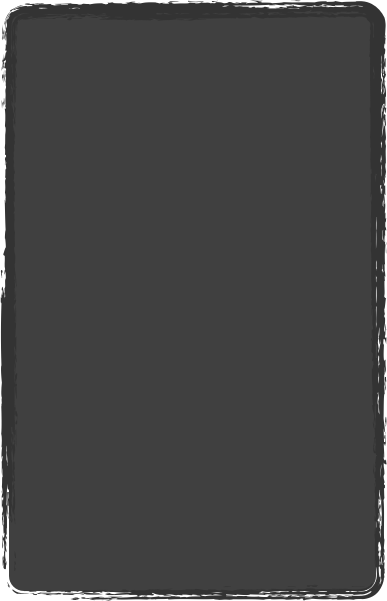
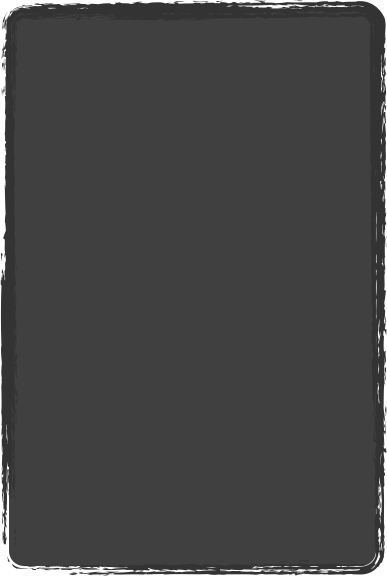
update

diff --git a/Cara_Leigh_About.html b/Cara_Leigh_About.html
@@ -152,9 +152,9 @@
             <script type="text/javascript"><!--//--><![CDATA[//><!--
 new Paste('widget0', 'Scripts/Widgets/HTMLRegion', 'Scripts/Widgets/SharedResources', '.', {"emptyLook": false});
 //--><!]]></script>
-            <div style="height: 601px; width: 387px;  height: 580px; left: 64px; position: absolute; top: 101px; width: 367px; z-index: 1; " class="tinyText">
+            <div style="height: 576px; width: 387px;  height: 555px; left: 64px; position: absolute; top: 101px; width: 367px; z-index: 1; " class="tinyText">
               <div style="position: relative; width: 367px; ">
-                <img src="Cara_Leigh_About_files/shapeimage_6.png" alt="" style="height: 601px; left: 0px; margin-left: -9px; margin-top: -11px; position: absolute; top: 0px; width: 387px; " />
+                <img src="Cara_Leigh_About_files/shapeimage_6.png" alt="" style="height: 576px; left: 0px; margin-left: -9px; margin-top: -11px; position: absolute; top: 0px; width: 387px; " />
               </div>
             </div>
             
@@ -170,13 +170,13 @@ new Paste('widget0', 'Scripts/Widgets/HTMLRegion', 'Scripts/Widgets/SharedResour
             
 
 
-            <div id="id12" style="height: 498px; left: 214px; position: absolute; top: 174px; width: 207px; z-index: 1; " class="style_SkipStroke_2 shape-with-text">
-              <div class="text-content graphic_textbox_layout_style_default_External_207_498" style="padding: 0px; ">
+            <div id="id12" style="height: 464px; left: 214px; position: absolute; top: 174px; width: 207px; z-index: 1; " class="style_SkipStroke_2 shape-with-text">
+              <div class="text-content graphic_textbox_layout_style_default_External_207_464" style="padding: 0px; ">
                 <div class="graphic_textbox_layout_style_default">
                   <p style="padding-top: 0pt; " class="paragraph_style_3">I’m an independent musician. I write and record my own tunes. <br /></p>
                   <p class="paragraph_style_3">Previously, I was in the band <a onclick="window.open(this.href); return false;" title="http://forevermeansnever.bandcamp.com/" href="http://forevermeansnever.bandcamp.com/" onkeypress="window.open(this.href); return false;">Forever Means Never</a>. Now, as a solo artist, you’ll find me performing at open mics and friendly porches.<br /></p>
                   <p class="paragraph_style_3">My album “One Step” is available for free <a onclick="window.open(this.href); return false;" title="http://caraleigh.bandcamp.com/album/one-step" href="http://caraleigh.bandcamp.com/album/one-step" onkeypress="window.open(this.href); return false;" class="class2">HERE</a>. It is an album that focuses on challenging perspectives, accepting change and self-empowerment. <br /></p>
-                  <p style="padding-bottom: 0pt; " class="paragraph_style_3">My latest EP “Another Kick At The Can” is a small collection of tunes that I wrote (or previously recorded) between 2004-2008. This EP can be downloaded <a onclick="window.open(this.href); return false;" title="http://caraleigh.bandcamp.com/album/another-kick-at-the-can-ep" href="http://caraleigh.bandcamp.com/album/another-kick-at-the-can-ep" onkeypress="window.open(this.href); return false;" class="class3">HERE</a>.</p>
+                  <p style="padding-bottom: 0pt; " class="paragraph_style_3">My latest EP “Another Kick At The Can” is a small collection of tunes that I wrote between 2004-2008. This EP can be downloaded <a onclick="window.open(this.href); return false;" title="http://caraleigh.bandcamp.com/album/another-kick-at-the-can-ep" href="http://caraleigh.bandcamp.com/album/another-kick-at-the-can-ep" onkeypress="window.open(this.href); return false;" class="class3">HERE</a>.</p>
                 </div>
               </div>
             </div>
@@ -195,7 +195,7 @@ new Paste('widget0', 'Scripts/Widgets/HTMLRegion', 'Scripts/Widgets/SharedResour
             <script type="text/javascript"><!--//--><![CDATA[//><!--
 new Paste('widget1', 'Scripts/Widgets/HTMLRegion', 'Scripts/Widgets/SharedResources', '.', {"emptyLook": false});
 //--><!]]></script>
-            <div style="height: 672px; line-height: 672px; " class="spacer"> </div>
+            <div style="height: 645px; line-height: 645px; " class="spacer"> </div>
           </div>
           <div style="height: 150px; margin-left: 0px; position: relative; width: 700px; z-index: 15; " id="footer_layer">
             <div style="height: 0px; line-height: 0px; " class="bumper"> </div>

diff --git a/Cara_Leigh_files/Cara_Leigh.js b/Cara_Leigh_files/Cara_Leigh.js
@@ -1,7 +1,7 @@
 // Created by iWeb 3.0 local-build-20130213
 
 setTransparentGifURL('Media/transparent.gif');function applyEffects()
-{var registry=IWCreateEffectRegistry();registry.registerEffects({stroke_0:new IWStrokeParts([{rect:new IWRect(-1,1,2,1158),url:'Cara_Leigh_files/stroke.png'},{rect:new IWRect(-1,-1,2,2),url:'Cara_Leigh_files/stroke_1.png'},{rect:new IWRect(1,-1,1544,2),url:'Cara_Leigh_files/stroke_2.png'},{rect:new IWRect(1545,-1,2,2),url:'Cara_Leigh_files/stroke_3.png'},{rect:new IWRect(1545,1,2,1158),url:'Cara_Leigh_files/stroke_4.png'},{rect:new IWRect(1545,1159,2,2),url:'Cara_Leigh_files/stroke_5.png'},{rect:new IWRect(1,1159,1544,2),url:'Cara_Leigh_files/stroke_6.png'},{rect:new IWRect(-1,1159,2,2),url:'Cara_Leigh_files/stroke_7.png'}],new IWSize(1546,1160)),shadow_1:new IWShadow({blurRadius:6,offset:new IWPoint(0.4875,3.9702),color:'#000000',opacity:0.750000}),shadow_0:new IWShadow({blurRadius:6,offset:new IWPoint(-0.8998,3.8975),color:'#000000',opacity:0.750000}),stroke_1:new IWStrokeParts([{rect:new IWRect(-1,1,2,273),url:'Cara_Leigh_files/stroke_8.png'},{rect:new IWRect(-1,-1,2,2),url:'Cara_Leigh_files/stroke_9.png'},{rect:new IWRect(1,-1,327,2),url:'Cara_Leigh_files/stroke_10.png'},{rect:new IWRect(328,-1,2,2),url:'Cara_Leigh_files/stroke_11.png'},{rect:new IWRect(328,1,2,273),url:'Cara_Leigh_files/stroke_12.png'},{rect:new IWRect(328,274,2,2),url:'Cara_Leigh_files/stroke_13.png'},{rect:new IWRect(1,274,327,2),url:'Cara_Leigh_files/stroke_14.png'},{rect:new IWRect(-1,274,2,2),url:'Cara_Leigh_files/stroke_15.png'}],new IWSize(329,275))});registry.applyEffects();}
+{var registry=IWCreateEffectRegistry();registry.registerEffects({stroke_0:new IWStrokeParts([{rect:new IWRect(-1,1,2,1158),url:'Cara_Leigh_files/stroke.png'},{rect:new IWRect(-1,-1,2,2),url:'Cara_Leigh_files/stroke_1.png'},{rect:new IWRect(1,-1,1544,2),url:'Cara_Leigh_files/stroke_2.png'},{rect:new IWRect(1545,-1,2,2),url:'Cara_Leigh_files/stroke_3.png'},{rect:new IWRect(1545,1,2,1158),url:'Cara_Leigh_files/stroke_4.png'},{rect:new IWRect(1545,1159,2,2),url:'Cara_Leigh_files/stroke_5.png'},{rect:new IWRect(1,1159,1544,2),url:'Cara_Leigh_files/stroke_6.png'},{rect:new IWRect(-1,1159,2,2),url:'Cara_Leigh_files/stroke_7.png'}],new IWSize(1546,1160)),shadow_0:new IWShadow({blurRadius:6,offset:new IWPoint(-0.8998,3.8975),color:'#000000',opacity:0.750000}),shadow_1:new IWShadow({blurRadius:6,offset:new IWPoint(0.4875,3.9702),color:'#000000',opacity:0.750000}),stroke_1:new IWStrokeParts([{rect:new IWRect(-1,1,2,273),url:'Cara_Leigh_files/stroke_8.png'},{rect:new IWRect(-1,-1,2,2),url:'Cara_Leigh_files/stroke_9.png'},{rect:new IWRect(1,-1,327,2),url:'Cara_Leigh_files/stroke_10.png'},{rect:new IWRect(328,-1,2,2),url:'Cara_Leigh_files/stroke_11.png'},{rect:new IWRect(328,1,2,273),url:'Cara_Leigh_files/stroke_12.png'},{rect:new IWRect(328,274,2,2),url:'Cara_Leigh_files/stroke_13.png'},{rect:new IWRect(1,274,327,2),url:'Cara_Leigh_files/stroke_14.png'},{rect:new IWRect(-1,274,2,2),url:'Cara_Leigh_files/stroke_15.png'}],new IWSize(329,275))});registry.applyEffects();}
 function hostedOnDM()
 {return false;}
 function onPageLoad()

diff --git a/Cara_Leigh_About_files/Cara_Leigh_About.js b/Cara_Leigh_About_files/Cara_Leigh_About.js
@@ -1,7 +1,7 @@
 // Created by iWeb 3.0 local-build-20130213
 
 setTransparentGifURL('Media/transparent.gif');function applyEffects()
-{var registry=IWCreateEffectRegistry();registry.registerEffects({shadow_1:new IWShadow({blurRadius:6,offset:new IWPoint(0.4875,3.9702),color:'#000000',opacity:0.750000}),shadow_0:new IWShadow({blurRadius:6,offset:new IWPoint(-0.8998,3.8975),color:'#000000',opacity:0.750000})});registry.applyEffects();}
+{var registry=IWCreateEffectRegistry();registry.registerEffects({shadow_0:new IWShadow({blurRadius:6,offset:new IWPoint(-0.8998,3.8975),color:'#000000',opacity:0.750000}),shadow_1:new IWShadow({blurRadius:6,offset:new IWPoint(0.4875,3.9702),color:'#000000',opacity:0.750000})});registry.applyEffects();}
 function hostedOnDM()
 {return false;}
 function onPageLoad()

diff --git a/Cara_Leigh_Contact_files/Cara_Leigh_Contact.js b/Cara_Leigh_Contact_files/Cara_Leigh_Contact.js
@@ -1,7 +1,7 @@
 // Created by iWeb 3.0 local-build-20130213
 
 setTransparentGifURL('Media/transparent.gif');function applyEffects()
-{var registry=IWCreateEffectRegistry();registry.registerEffects({shadow_0:new IWShadow({blurRadius:6,offset:new IWPoint(-0.8998,3.8975),color:'#000000',opacity:0.750000}),shadow_1:new IWShadow({blurRadius:6,offset:new IWPoint(0.4875,3.9702),color:'#000000',opacity:0.750000})});registry.applyEffects();}
+{var registry=IWCreateEffectRegistry();registry.registerEffects({shadow_1:new IWShadow({blurRadius:6,offset:new IWPoint(0.4875,3.9702),color:'#000000',opacity:0.750000}),shadow_0:new IWShadow({blurRadius:6,offset:new IWPoint(-0.8998,3.8975),color:'#000000',opacity:0.750000})});registry.applyEffects();}
 function hostedOnDM()
 {return false;}
 function onPageLoad()

diff --git a/Cara_Leigh_About_files/Cara_Leigh_About.css b/Cara_Leigh_About_files/Cara_Leigh_About.css
@@ -176,13 +176,13 @@
 .graphic_textbox_layout_style_default_External_515_42 {
     position: relative;
 }
+.graphic_textbox_layout_style_default_External_207_464 {
+    position: relative;
+}
 .graphic_textbox_layout_style_default_External_334_51 {
     position: relative;
 }
 .graphic_textbox_layout_style_default_External_92_92 {
-    position: relative;
-}
-.graphic_textbox_layout_style_default_External_207_498 {
     position: relative;
 }
 .graphic_textbox_layout_style_default_External_100_100 {
